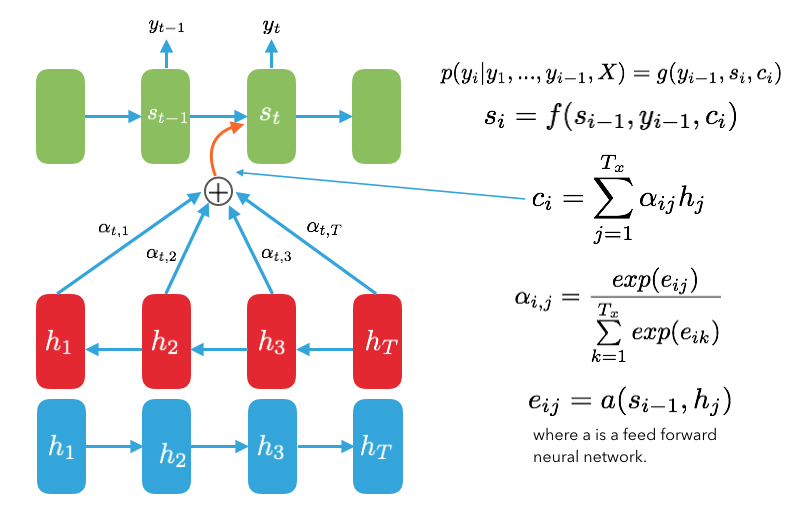
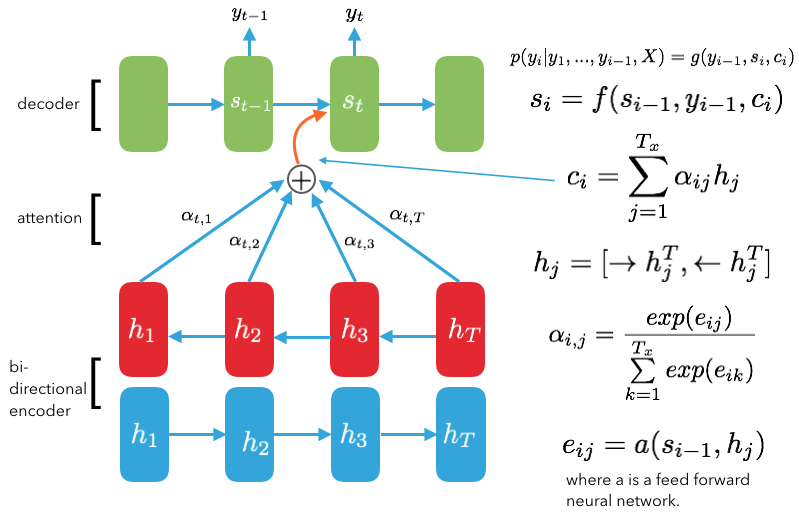
Finished RNN attention paper

diff --git a/notes/rnn_attention.md b/notes/rnn_attention.md
@@ -1,4 +1,4 @@
-## Neural Machine Translation by Jointly Learning to Align and Translate] (http://arxiv.org/abs/1409.0473) - Attention in RNNs
+## [Neural Machine Translation by Jointly Learning to Align and Translate] (http://arxiv.org/abs/1409.0473) - Attention in RNNs
 
 TLDR; Instead of feeding a fixed size embedded vector into the decoder, we will allow the decoder to soft attention to focus on different parts of the input. Here we use a bidrectional RNN as the encoder and allow the decoder to apply soft attention. 
 
@@ -13,14 +13,19 @@ This allows our model to prevent storing all the information from a long sentenc
 
 ![attention] (images/rnn_attention/attention.png)
 
+- The encoder will be a bidirectional RNN because we also want to like the annotation of each word to be a summary of the previous and the following words. The annotations of the forward and reverse paths in the BiRNN are concatenated to get h1, h2, ... h_T. 
+
 ### Training Points:
 
-- 
+- vocab size restricted to 30,000 most frequent words, other words are replaced with <UNK>. No stemming or lowercasing involved. 
 
+- Very detailed implementation at bottom of pdf (past references). 
 
 ### Unique Points:
 
-- 
+- Attention is referred to as alignment in this paper. Soft and hard alignment.
+
+- Attention helps accurately translate short and especially, long sentences really well. 
 
 
 
